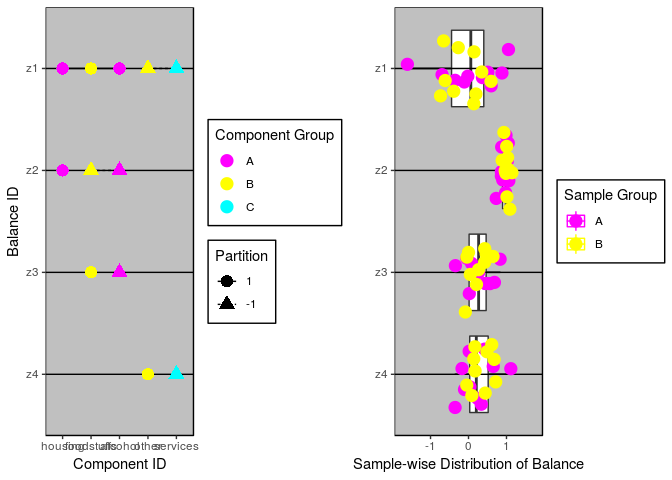
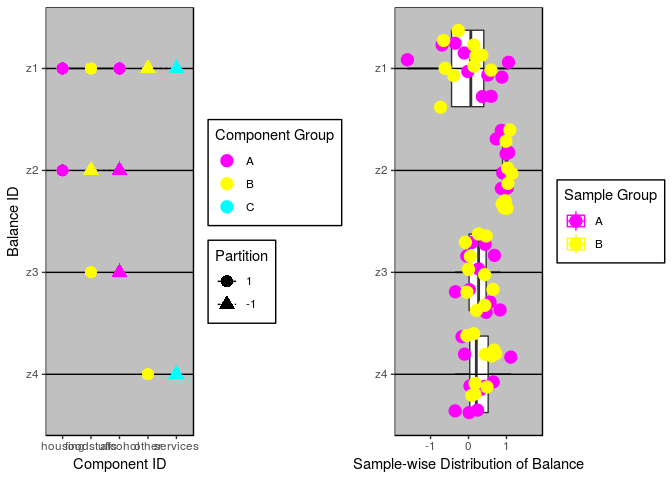
Stage stable balance 0.0.4 with big performance gain

Changed region(s): [[0.6562, 0.4688, 0.7812, 0.875], [0.5938, 0.0312, 0.7812, 0.25], [0.7188, 0.25, 0.7812, 0.4688]]

diff --git a/NEWS.md b/NEWS.md
@@ -1,3 +1,9 @@
+## balance 0.0.4
+---------------------
+* Update `balance` method
+    * Re-write `robCompositions::balances` call as `balances` function
+    * Re-write `reshape2::melt` call as `wide2long` function
+
 ## balance 0.0.3
 ---------------------
 * Update `balance` method

diff --git a/README.md b/README.md
@@ -30,7 +30,6 @@ With the data loaded, we can calculate and visualize the balances.
 
 ``` r
 res <- balance(expenditures, y1, size.text = 8)
-#> sROC 0.1-2 loaded
 ```
 
 ![](README-unnamed-chunk-4-1.png)
